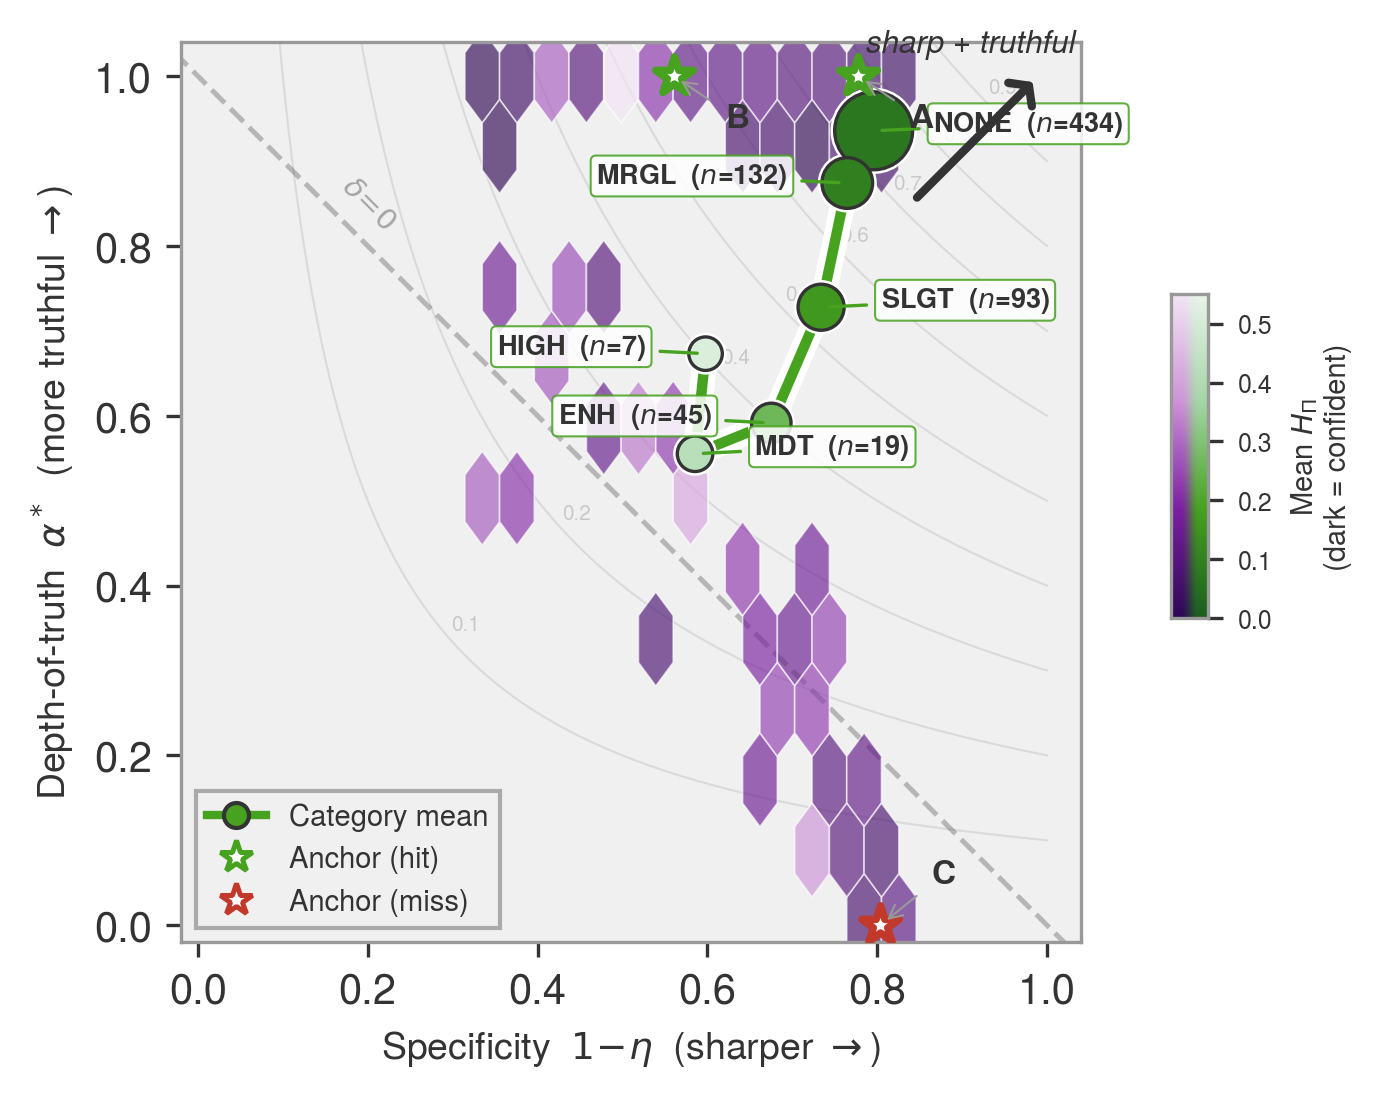
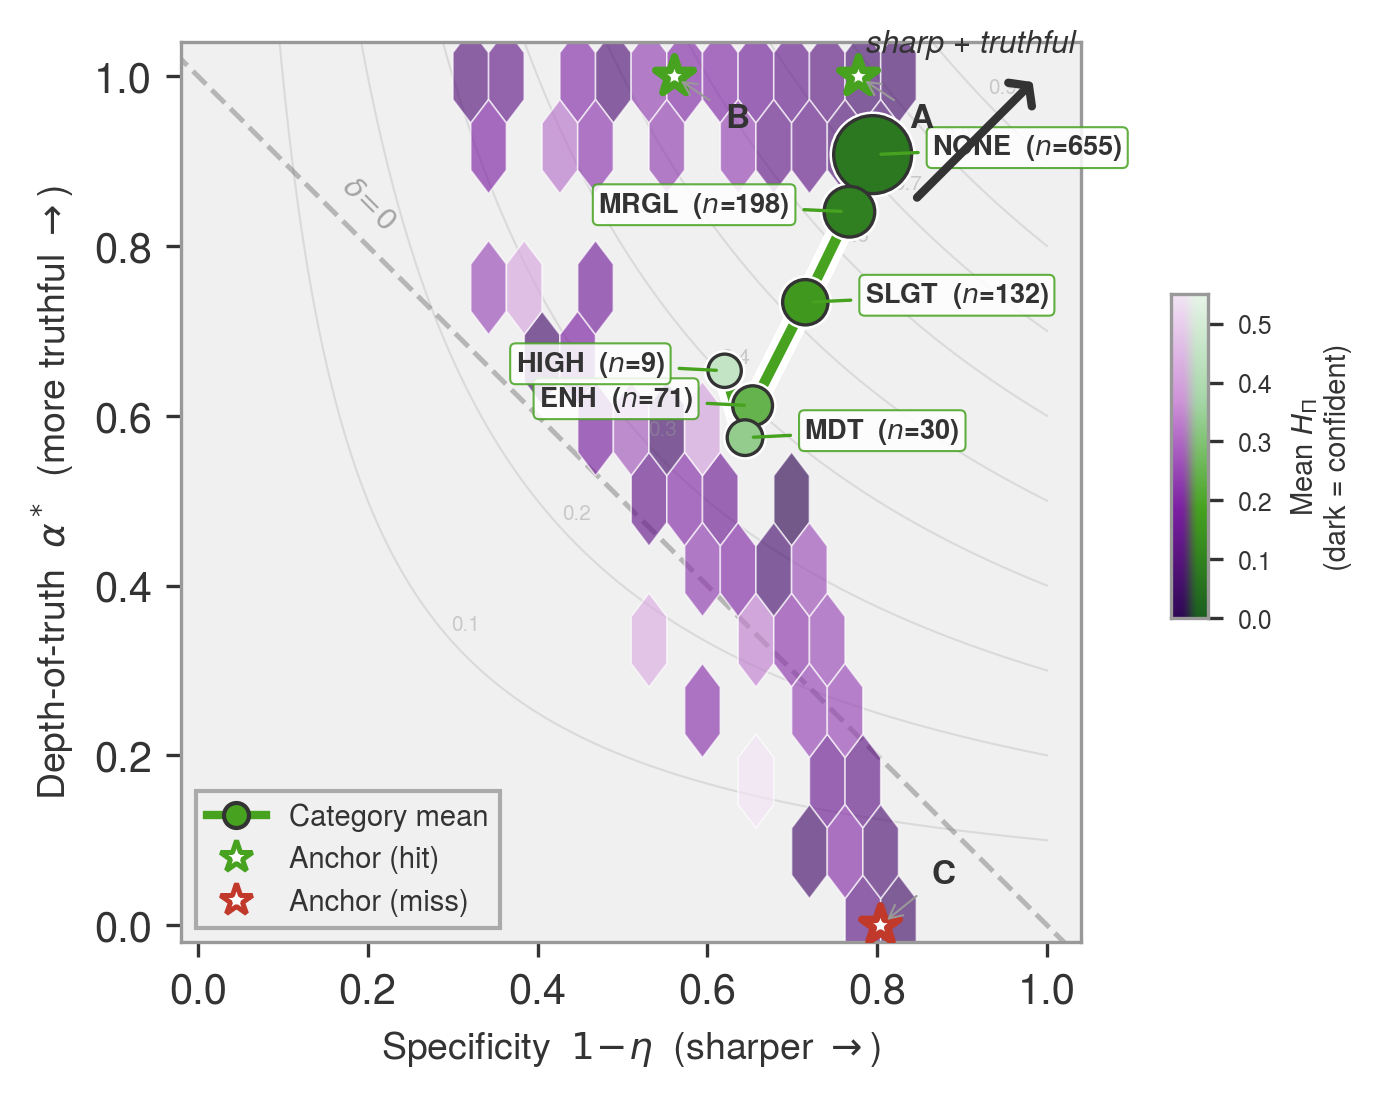
3-year reforecast, bigger hexes, count floor for commitment diagram
Bump synthetic reforecast from 2 to 3 years (n=1095) for denser
hex coverage. Commitment diagram: gridsize 14→12, set_under for
count<5 bins so sparse hexes get a uniform pale shade instead of
near-white. Update caption to three-year.

Changed region(s): [[0.3111, 0.031, 0.8401, 0.8361]]

diff --git a/scripts/fig_perf_iterate.py b/scripts/fig_perf_iterate.py
@@ -55,7 +55,7 @@ def count_cmap():
 # ------------------------------------------------------------------ #
 
 def get_data():
-    d = generate_reforecast()
+    d = generate_reforecast(n_years=3)
     spec = 1.0 - d['eta']
     rng = np.random.default_rng(99)
     top = d['alpha_star'] > 0.99
@@ -318,13 +318,16 @@ def v4b(data, ap, spec, anchors):
     """V4b: commitment-discrimination + trajectory (all days)."""
     fig, ax = plt.subplots(figsize=(5.8, 7.0))
     cm = count_cmap()
+    cm.set_under("#E8E0F0")  # distinct pale shade for bins with count < 5
     means = cat_means(data, spec)
 
     pi_max = 1.0 - data['H_Pi']
     delta = data['delta']
 
-    hb = ax.hexbin(pi_max, delta, gridsize=14, cmap=cm,
+    hb = ax.hexbin(pi_max, delta, gridsize=12, cmap=cm,
                    edgecolors="white", linewidths=0.4, mincnt=1, zorder=2)
+    # Clamp: bins with count < 5 get the set_under colour
+    hb.set_clim(vmin=5)
 
     draw_delta0_horiz(ax)
 
@@ -339,7 +342,7 @@ def v4b(data, ap, spec, anchors):
     draw_anchors_commit(ax, anchors)
     draw_compass(ax, 0.95, 0.72, "better")
 
-    cb = fig.colorbar(hb, ax=ax, shrink=0.55, pad=0.02)
+    cb = fig.colorbar(hb, ax=ax, shrink=0.55, pad=0.02, extend='min')
     cb.set_label("Count per bin", fontsize=8)
     cb.ax.tick_params(labelsize=7)
 

diff --git a/sections/05-native-verification.tex b/sections/05-native-verification.tex
@@ -27,7 +27,7 @@ $\ign = 1 - m$ is ignorance (Eq.~\ref{eq:ignorance}).
 \begin{figure}[t]
 \centering
 \includegraphics[width=\columnwidth]{perf_hexbin_trajectory.png}
-\caption{Possibilistic performance diagram for a two-year synthetic
+\caption{Possibilistic performance diagram for a three-year synthetic
     reforecast.
     \textbf{Hex bins:} colour is mean $\ign$ (dark purple = confident).
     \textbf{Contours:} joint skill $S = \alpha^* \times (1 - \eta)$.
